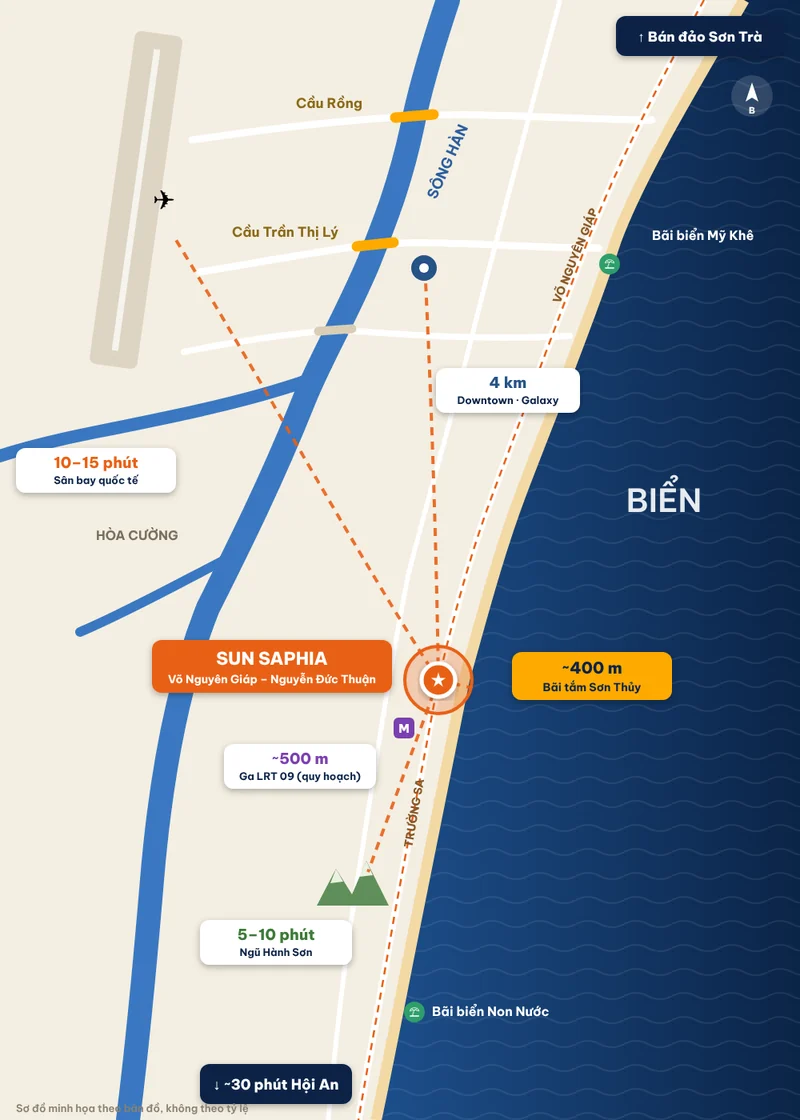
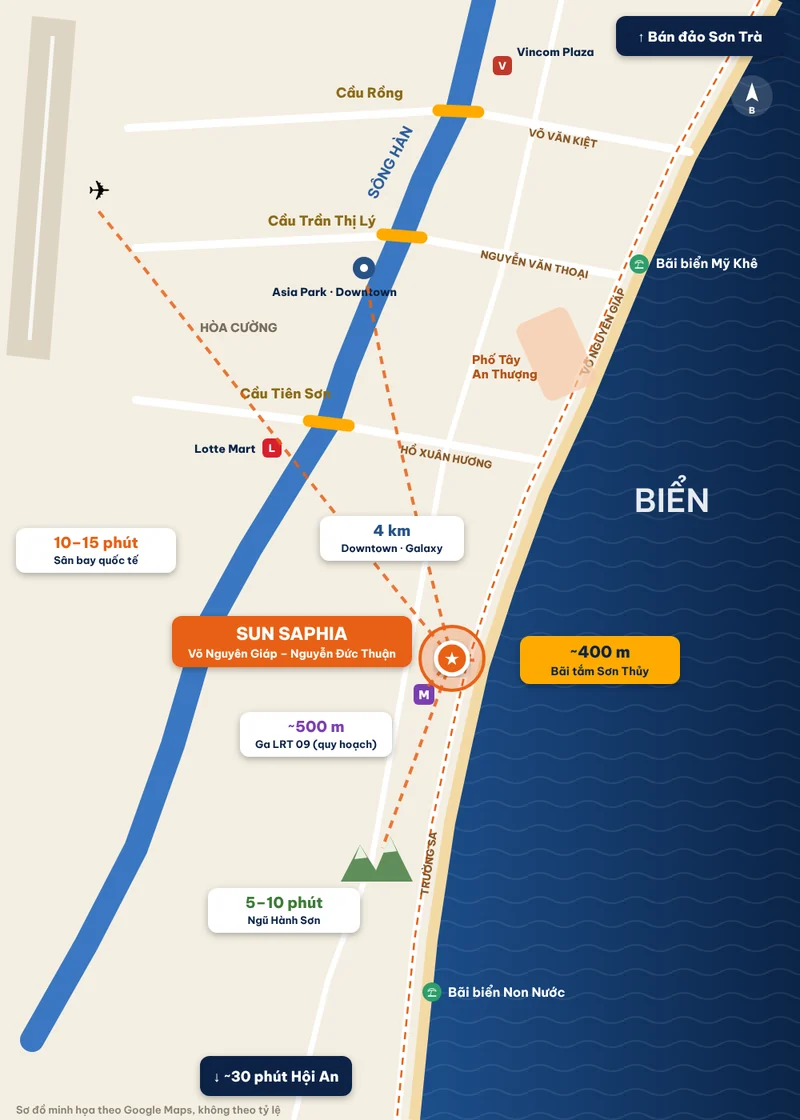
Sun Saphia: vẽ lại sơ đồ vị trí theo Google Maps (cầu Rồng, Trần Thị Lý, Tiên Sơn, Hồ Xuân Hương, An Thượng, Vincom, Lotte Mart)
Claude-Session: https://claude.ai/code/session_01QqqhqeJL7dLdZQGmjqHGDV

Changed region(s): [[0.0, 0.0, 0.9688, 1.0], [0.0, 0.0, 0.0938, 0.3438], [0.7812, 0.4062, 0.9062, 0.4688]]

diff --git a/landing/sun-saphia/seo/anh-dang-page/nguon-so-do-vi-tri.html b/landing/sun-saphia/seo/anh-dang-page/nguon-so-do-vi-tri.html
@@ -1,65 +1,79 @@
-<!doctype html><html><head><meta charset="utf-8"><link href="https://fonts.googleapis.com/css2?family=Be+Vietnam+Pro:wght@600;700;800&family=Fahkwang:wght@400;500&display=swap" rel="stylesheet">
-<style>*{margin:0}#c{width:1000px;height:1400px;position:relative}text{font-family:"Be Vietnam Pro",sans-serif}</style></head><body><div id="c">
+<!doctype html><html><head><meta charset="utf-8"><link href="https://fonts.googleapis.com/css2?family=Be+Vietnam+Pro:wght@600;700;800&family=Fahkwang:wght@400&display=swap" rel="stylesheet">
+<style>*{margin:0}#c{width:1000px;height:1400px}text{font-family:"Be Vietnam Pro",sans-serif}</style></head><body><div id="c">
 <svg width="1000" height="1400" viewBox="0 0 1000 1400">
 <defs><linearGradient id="sea" x1="0" x2="1"><stop offset="0" stop-color="#1d4f8c"/><stop offset="1" stop-color="#0B2447"/></linearGradient>
 <pattern id="wv" width="60" height="30" patternUnits="userSpaceOnUse"><path d="M0 15 q15 -8 30 0 t30 0" fill="none" stroke="rgba(255,255,255,.08)" stroke-width="2"/></pattern>
 <filter id="sh"><feDropShadow dx="0" dy="3" stdDeviation="4" flood-opacity=".3"/></filter></defs>
 <rect width="1000" height="1400" fill="#F4EEE2"/>
-<!-- sea (right of diagonal coast) -->
-<path d="M930 0 C860 120 800 220 770 300 C730 420 680 540 650 620 C620 700 600 780 580 850 C560 950 540 1050 520 1150 C500 1250 485 1330 470 1400 H1000 V0 Z" fill="url(#sea)"/>
-<path d="M930 0 C860 120 800 220 770 300 C730 420 680 540 650 620 C620 700 600 780 580 850 C560 950 540 1050 520 1150 C500 1250 485 1330 470 1400 H1000 V0 Z" fill="url(#wv)"/>
-<path d="M930 0 C860 120 800 220 770 300 C730 420 680 540 650 620 C620 700 600 780 580 850 C560 950 540 1050 520 1150 C500 1250 485 1330 470 1400" fill="none" stroke="#F3D9A4" stroke-width="14"/>
+<!-- sea -->
+<path d="M972 0 L864 196 L799 343 L734 500 L680 617 L637 735 L605 833 L583 931 L562 1029 L540 1176 L518 1400 H1000 V0 Z" fill="url(#sea)"/>
+<path d="M972 0 L864 196 L799 343 L734 500 L680 617 L637 735 L605 833 L583 931 L562 1029 L540 1176 L518 1400 H1000 V0 Z" fill="url(#wv)"/>
+<polyline points="972,0 864,196 799,343 734,500 680,617 637,735 605,833 583,931 562,1029 540,1176 518,1400" fill="none" stroke="#F3D9A4" stroke-width="14" stroke-linejoin="round"/>
 <!-- airport -->
-<g transform="rotate(8 170 250)"><rect x="140" y="40" width="60" height="420" rx="8" fill="#ddd5c3"/><rect x="166" y="60" width="8" height="380" fill="#fff" opacity=".7"/></g>
-<text x="205" y="262" font-size="34" text-anchor="middle">✈</text>
-<!-- river Han + branches -->
-<path d="M560 0 C540 60 525 110 515 160 C500 230 480 280 460 330 C430 400 400 450 380 500 C340 600 300 680 260 760 C220 860 200 980 190 1100 C180 1220 170 1320 160 1400" fill="none" stroke="#3a78c2" stroke-width="30" stroke-linecap="round"/>
-<path d="M400 470 C320 500 220 520 120 540 C70 550 30 560 0 570" fill="none" stroke="#3a78c2" stroke-width="16" stroke-linecap="round"/>
-<path d="M300 690 C240 720 170 760 100 790" fill="none" stroke="#3a78c2" stroke-width="12" stroke-linecap="round"/>
-<text x="545" y="250" font-size="18" font-weight="700" fill="#2c5f9e" transform="rotate(-66 545 250)">SÔNG HÀN</text>
-<!-- bridges -->
-<text x="370" y="135" font-size="17" font-weight="700" fill="#8a6a1a">Cầu Rồng</text>
-<text x="290" y="296" font-size="17" font-weight="700" fill="#8a6a1a">Cầu Trần Thị Lý</text>
-<!-- cross roads + bridges -->
-<g fill="none" stroke-linecap="round">
-<path d="M240 175 C340 160 430 150 518 145 C620 140 720 150 815 150" stroke="#fff" stroke-width="9"/>
-<path d="M250 340 C340 325 410 312 468 305 C560 300 650 310 748 310" stroke="#fff" stroke-width="9"/>
-<path d="M230 440 C300 425 360 418 418 412 C520 420 610 425 712 420" stroke="#fff" stroke-width="8"/>
-<path d="M494 147 L542 143" stroke="#FFAA01" stroke-width="13"/>
-<path d="M446 308 L492 303" stroke="#FFAA01" stroke-width="13"/>
-<path d="M398 414 L440 411" stroke="#d8cdb6" stroke-width="11"/>
+<polygon points="40,20 95,26 62,450 8,444" fill="#ddd5c3"/><line x1="66" y1="45" x2="37" y2="425" stroke="#fff" stroke-width="5" opacity=".8"/>
+<text x="110" y="250" font-size="34">✈</text>
+<!-- river -->
+<polyline points="605,0 572,137 529,225 502,294 464,382 432,461 410,529 367,598 313,686 259,784 216,931 170,1060 108,1180 40,1300" fill="none" stroke="#3a78c2" stroke-width="30" stroke-linecap="round" stroke-linejoin="round"/>
+<text x="470" y="250" font-size="18" font-weight="700" fill="#2c5f9e" transform="rotate(-62 470 250)">SÔNG HÀN</text>
+<!-- main inland road (Ngo Quyen / Le Van Hien) -->
+<polyline points="702,0 680,98 626,343 556,568 508,833 464,1078 410,1225 367,1400" fill="none" stroke="#fff" stroke-width="7" stroke-linejoin="round"/>
+<!-- cross roads -->
+<g fill="none" stroke="#fff" stroke-width="10" stroke-linecap="round">
+<polyline points="160,160 572,137 862,190"/>
+<polyline points="170,310 502,294 777,345"/>
+<polyline points="170,500 410,529 672,575"/>
 </g>
-<!-- roads -->
-<path d="M880 0 C820 110 770 210 735 300 C690 420 645 540 615 620 C585 700 565 780 548 850 C530 950 510 1050 492 1150 C475 1250 460 1330 448 1400" fill="none" stroke="#fff" stroke-width="9"/>
-<path d="M880 0 C820 110 770 210 735 300 C690 420 645 540 615 620 C585 700 565 780 548 850 C530 950 510 1050 492 1150 C475 1250 460 1330 448 1400" fill="none" stroke="#E96118" stroke-width="2.5" stroke-dasharray="9 7"/>
-<path d="M700 0 C660 150 620 300 590 420 C560 540 530 640 510 720 C490 820 470 950 450 1080 C430 1200 420 1300 410 1400" fill="none" stroke="#fff" stroke-width="6"/>
-<text x="700" y="380" font-size="14" font-weight="800" fill="#8a5a2a" transform="rotate(-68 700 380)">VÕ NGUYÊN GIÁP</text>
-<text x="515" y="1060" font-size="14" font-weight="800" fill="#8a5a2a" transform="rotate(-80 515 1060)">TRƯỜNG SA</text>
-<!-- places -->
-<text x="120" y="675" font-size="16" font-weight="700" fill="#7a6f5c">HÒA CƯỜNG</text>
-<g transform="translate(530,335)"><circle r="16" fill="#275286"/><circle r="6" fill="#fff"/></g>
-<g transform="translate(440,1110)"><path d="M-44 22 L-20 -24 L0 8 L18 -34 L46 22 Z" fill="#5f8f5a"/><path d="M-20 -24 L-11 -8 L-27 -6 Z M18 -34 L26 -16 L9 -14 Z" fill="#e9f1e2"/></g>
-<g transform="translate(762,330)"><circle r="13" fill="#2f9e6a"/><text y="5" font-size="13" text-anchor="middle" fill="#fff">⛱</text></g>
-<g transform="translate(518,1265)"><circle r="13" fill="#2f9e6a"/><text y="5" font-size="13" text-anchor="middle" fill="#fff">⛱</text></g>
-<g transform="translate(505,910)"><rect x="-13" y="-13" width="26" height="26" rx="6" fill="#7b3fb0"/><text y="6" font-size="15" fill="#fff" text-anchor="middle" font-weight="800">M</text></g>
+<!-- bridges -->
+<g stroke-linecap="round"><line x1="548" y1="138" x2="598" y2="140" stroke="#FFAA01" stroke-width="15"/>
+<line x1="478" y1="293" x2="527" y2="297" stroke="#FFAA01" stroke-width="15"/>
+<line x1="386" y1="526" x2="436" y2="532" stroke="#FFAA01" stroke-width="15"/></g>
+<text x="420" y="122" font-size="17" font-weight="800" fill="#8a6a1a">Cầu Rồng</text>
+<text x="335" y="282" font-size="17" font-weight="800" fill="#8a6a1a">Cầu Trần Thị Lý</text>
+<text x="300" y="498" font-size="17" font-weight="800" fill="#8a6a1a">Cầu Tiên Sơn</text>
+<!-- road names -->
+<text x="660" y="170" font-size="13" font-weight="800" fill="#8a5a2a" transform="rotate(10 660 170)">VÕ VĂN KIỆT</text>
+<text x="600" y="322" font-size="13" font-weight="800" fill="#8a5a2a" transform="rotate(11 600 322)">NGUYỄN VĂN THOẠI</text>
+<text x="500" y="566" font-size="13" font-weight="800" fill="#8a5a2a" transform="rotate(10 500 566)">HỒ XUÂN HƯƠNG</text>
+<!-- coastal road -->
+<polyline points="950,0 842,196 777,343 712,500 658,617 615,735 583,833 561,931 540,1029 518,1176 496,1400" fill="none" stroke="#fff" stroke-width="9" stroke-linejoin="round"/>
+<polyline points="950,0 842,196 777,343 712,500 658,617 615,735 583,833 561,931 540,1029 518,1176 496,1400" fill="none" stroke="#E96118" stroke-width="2.5" stroke-dasharray="9 7"/>
+<text x="735" y="470" font-size="13" font-weight="800" fill="#8a5a2a" transform="rotate(-66 735 470)">VÕ NGUYÊN GIÁP</text>
+<text x="535" y="1120" font-size="13" font-weight="800" fill="#8a5a2a" transform="rotate(-82 535 1120)">TRƯỜNG SA</text>
+<!-- An Thuong -->
+<rect x="660" y="390" width="70" height="105" rx="12" fill="#f6c9a8" opacity=".7" transform="rotate(-24 695 442)"/>
+<!-- POIs -->
+<g font-weight="800" font-size="14">
+<g transform="translate(628,82)"><rect x="-12" y="-12" width="24" height="24" rx="6" fill="#c0392b"/><text y="5" fill="#fff" text-anchor="middle" font-size="13">V</text></g>
+<text x="646" y="70" fill="#0B2447">Vincom Plaza</text>
+<g transform="translate(340,560)"><rect x="-12" y="-12" width="24" height="24" rx="6" fill="#d81e2a"/><text y="5" fill="#fff" text-anchor="middle" font-size="13">L</text></g>
+<text x="243" y="566" fill="#0B2447">Lotte Mart</text>
+<g transform="translate(455,335)"><circle r="14" fill="#275286"/><circle r="5" fill="#fff"/></g>
+<text x="340" y="370" fill="#0B2447">Asia Park · Downtown</text>
+<text x="590" y="455" fill="#b4531a" font-size="15">Phố Tây</text><text x="590" y="473" fill="#b4531a" font-size="15">An Thượng</text>
+<text x="250" y="415" fill="#7a6f5c" font-size="15">HÒA CƯỜNG</text>
+</g>
+<g transform="translate(799,330)"><circle r="12" fill="#2f9e6a"/><text y="5" font-size="12" text-anchor="middle" fill="#fff">⛱</text></g>
+<text x="820" y="335" font-size="16" font-weight="700" fill="#fff">Bãi biển Mỹ Khê</text>
+<g transform="translate(540,1240)"><circle r="12" fill="#2f9e6a"/><text y="5" font-size="12" text-anchor="middle" fill="#fff">⛱</text></g>
+<text x="560" y="1246" font-size="16" font-weight="700" fill="#fff">Bãi biển Non Nước</text>
+<!-- Ngu Hanh Son -->
+<g transform="translate(470,1080)"><path d="M-44 22 L-20 -24 L0 8 L18 -34 L46 22 Z" fill="#5f8f5a"/><path d="M-20 -24 L-11 -8 L-27 -6 Z M18 -34 L26 -16 L9 -14 Z" fill="#e9f1e2"/></g>
+<g transform="translate(530,868)"><rect x="-13" y="-13" width="26" height="26" rx="6" fill="#7b3fb0"/><text y="6" font-size="15" fill="#fff" text-anchor="middle" font-weight="800">M</text></g>
 <!-- links -->
-<g stroke="#E96118" stroke-width="4" stroke-dasharray="10 8" fill="none" opacity=".9">
-<path d="M548 850 C450 700 330 480 220 300"/><path d="M548 850 C545 650 538 480 532 352"/><path d="M548 850 L590 860"/><path d="M548 850 L460 1090"/></g>
-<!-- Saphia -->
-<circle cx="548" cy="850" r="42" fill="rgba(233,97,24,.25)" stroke="#E96118" stroke-width="4"/>
-<circle cx="548" cy="850" r="21" fill="#E96118" stroke="#fff" stroke-width="5" filter="url(#sh)"/><text x="548" y="858" font-size="21" text-anchor="middle" fill="#fff">★</text>
+<g stroke="#E96118" stroke-width="4" stroke-dasharray="10 8" fill="none" opacity=".85">
+<path d="M565 823 C420 650 250 420 120 260"/><path d="M565 823 C520 650 480 480 458 350"/><path d="M565 823 L598 826"/><path d="M565 823 L533 860"/><path d="M565 823 L478 1060"/></g>
+<circle cx="565" cy="823" r="40" fill="rgba(233,97,24,.25)" stroke="#E96118" stroke-width="4"/>
+<circle cx="565" cy="823" r="20" fill="#E96118" stroke="#fff" stroke-width="5" filter="url(#sh)"/><text x="565" y="831" font-size="20" text-anchor="middle" fill="#fff">★</text>
 <g filter="url(#sh)" font-weight="800">
-<rect x="190" y="800" width="300" height="66" rx="12" fill="#E96118"/><text x="340" y="831" font-size="22" fill="#fff" text-anchor="middle">SUN SAPHIA</text><text x="340" y="854" font-size="14" fill="#fff" text-anchor="middle" font-weight="700">Võ Nguyên Giáp – Nguyễn Đức Thuận</text>
-<rect x="640" y="815" width="200" height="60" rx="12" fill="#FFAA01"/><text x="740" y="842" font-size="20" fill="#0B2447" text-anchor="middle">~400 m</text><text x="740" y="864" font-size="14" fill="#0B2447" text-anchor="middle" font-weight="700">Bãi tắm Sơn Thủy</text>
-<rect x="280" y="930" width="190" height="56" rx="12" fill="#fff"/><text x="375" y="955" font-size="19" fill="#7b3fb0" text-anchor="middle">~500 m</text><text x="375" y="975" font-size="13" fill="#0B2447" text-anchor="middle" font-weight="700">Ga LRT 09 (quy hoạch)</text>
-<rect x="250" y="1150" width="190" height="56" rx="12" fill="#fff"/><text x="345" y="1175" font-size="19" fill="#3d7a38" text-anchor="middle">5–10 phút</text><text x="345" y="1195" font-size="13" fill="#0B2447" text-anchor="middle" font-weight="700">Ngũ Hành Sơn</text>
-<rect x="545" y="460" width="180" height="56" rx="12" fill="#fff"/><text x="635" y="485" font-size="19" fill="#275286" text-anchor="middle">4 km</text><text x="635" y="505" font-size="13" fill="#0B2447" text-anchor="middle" font-weight="700">Downtown · Galaxy</text>
-<rect x="20" y="560" width="200" height="56" rx="12" fill="#fff"/><text x="120" y="585" font-size="19" fill="#E96118" text-anchor="middle">10–15 phút</text><text x="120" y="605" font-size="13" fill="#0B2447" text-anchor="middle" font-weight="700">Sân bay quốc tế</text>
-<rect x="250" y="1330" width="190" height="50" rx="12" fill="#0B2447"/><text x="345" y="1362" font-size="18" fill="#fff" text-anchor="middle">↓ ~30 phút Hội An</text>
+<rect x="215" y="770" width="300" height="64" rx="12" fill="#E96118"/><text x="365" y="800" font-size="22" fill="#fff" text-anchor="middle">SUN SAPHIA</text><text x="365" y="822" font-size="14" fill="#fff" text-anchor="middle" font-weight="700">Võ Nguyên Giáp – Nguyễn Đức Thuận</text>
+<rect x="650" y="795" width="200" height="60" rx="12" fill="#FFAA01"/><text x="750" y="822" font-size="20" fill="#0B2447" text-anchor="middle">~400 m</text><text x="750" y="844" font-size="14" fill="#0B2447" text-anchor="middle" font-weight="700">Bãi tắm Sơn Thủy</text>
+<rect x="300" y="890" width="190" height="56" rx="12" fill="#fff"/><text x="395" y="915" font-size="19" fill="#7b3fb0" text-anchor="middle">~500 m</text><text x="395" y="935" font-size="13" fill="#0B2447" text-anchor="middle" font-weight="700">Ga LRT 09 (quy hoạch)</text>
+<rect x="260" y="1110" width="190" height="56" rx="12" fill="#fff"/><text x="355" y="1135" font-size="19" fill="#3d7a38" text-anchor="middle">5–10 phút</text><text x="355" y="1155" font-size="13" fill="#0B2447" text-anchor="middle" font-weight="700">Ngũ Hành Sơn</text>
+<rect x="400" y="645" width="180" height="56" rx="12" fill="#fff"/><text x="490" y="670" font-size="19" fill="#275286" text-anchor="middle">4 km</text><text x="490" y="690" font-size="13" fill="#0B2447" text-anchor="middle" font-weight="700">Downtown · Galaxy</text>
+<rect x="20" y="660" width="200" height="56" rx="12" fill="#fff"/><text x="120" y="685" font-size="19" fill="#E96118" text-anchor="middle">10–15 phút</text><text x="120" y="705" font-size="13" fill="#0B2447" text-anchor="middle" font-weight="700">Sân bay quốc tế</text>
+<rect x="250" y="1320" width="190" height="50" rx="12" fill="#0B2447"/><text x="345" y="1352" font-size="18" fill="#fff" text-anchor="middle">↓ ~30 phút Hội An</text>
 <rect x="770" y="20" width="210" height="50" rx="12" fill="#0B2447"/><text x="875" y="52" font-size="17" fill="#fff" text-anchor="middle">↑ Bán đảo Sơn Trà</text></g>
-<text x="815" y="300" font-size="16" font-weight="700" fill="#fff">Bãi biển Mỹ Khê</text>
-<text x="540" y="1270" font-size="16" font-weight="700" fill="#fff">Bãi biển Non Nước</text>
-<text x="830" y="640" font-family="Fahkwang" font-size="40" fill="rgba(255,255,255,.9)" text-anchor="middle">BIỂN</text>
+<text x="840" y="640" font-family="Fahkwang" font-size="40" fill="rgba(255,255,255,.9)" text-anchor="middle">BIỂN</text>
 <g transform="translate(940,120)"><circle r="26" fill="rgba(255,255,255,.15)"/><path d="M0 -17 L8 7 L0 2 L-8 7 Z" fill="#fff"/><text y="22" font-size="11" fill="#fff" text-anchor="middle" font-weight="800">B</text></g>
-<text x="20" y="1390" font-size="13" font-weight="600" fill="#8a8170">Sơ đồ minh họa theo bản đồ, không theo tỷ lệ</text>
+<text x="20" y="1392" font-size="13" font-weight="600" fill="#8a8170">Sơ đồ minh họa theo Google Maps, không theo tỷ lệ</text>
 </svg></div></body></html>
